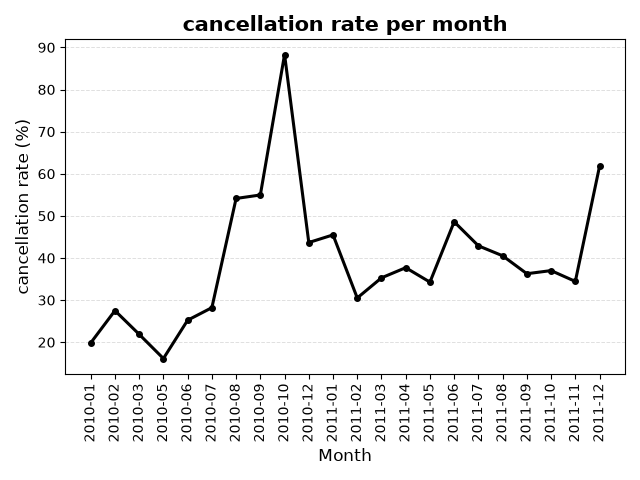
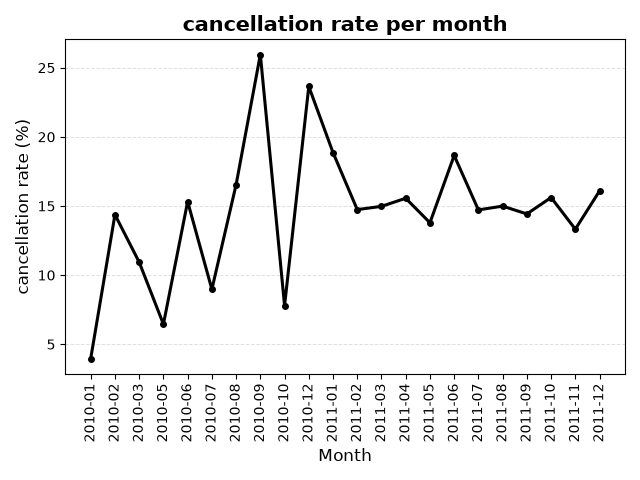
added read me and a few extra analyses to examine revenue

diff --git a/python/month_analyses.py b/python/month_analyses.py
@@ -36,6 +36,57 @@ plt.xticks(rotation=90)
 plt.tight_layout()
 plt.show()
 
+#I found that there is an increase of 683% between Oct 2010 & Dec 2010
+october = online_retail_clean[(online_retail_clean["InvoiceDate"].dt.year == 2010) & 
+                              (online_retail_clean["InvoiceDate"].dt.month == 10)]
+december = online_retail_clean[(online_retail_clean["InvoiceDate"].dt.year == 2010) & 
+                              (online_retail_clean["InvoiceDate"].dt.month == 12)]
+
+october_orders = october.groupby("InvoiceNo")["revenue"].sum().sort_values(ascending=False)
+december_orders = december.groupby("InvoiceNo")["revenue"].sum().sort_values(ascending=False)
+
+print (f"Highest revenue orders in october:\n {october_orders.head(10)}")
+print (f"Highest revenue orders in december:\n {december_orders.head(10)}")
+
+largest_order_oct = october_orders.iloc[0]
+largest_order_oct_share = (largest_order_oct / october["revenue"].sum()) * 100
+
+largest_order_dec = december_orders.iloc[0]
+largest_order_dec_share = (largest_order_dec / december["revenue"].sum()) * 100
+
+print (f"October largest order share: {largest_order_oct_share}%\n vs December: {largest_order_dec_share}%")
+
+print (f"October:\n Orders: {len(october_orders)}\n Revenue: {october_orders.sum()}\n Average_order: {october_orders.mean()}\n Median_order: {october_orders.median()}")
+print (f"December:\n Orders: {len(december_orders)}\n Revenue: {december_orders.sum()}\n Average_order: {december_orders.mean()}\n Median_order: {december_orders.median()}")
+
+#Examining the september 2011 peak:
+august = online_retail_clean[(online_retail_clean["InvoiceDate"].dt.year == 2011) & 
+                              (online_retail_clean["InvoiceDate"].dt.month == 8)]
+september = online_retail_clean[(online_retail_clean["InvoiceDate"].dt.year == 2011) & 
+                              (online_retail_clean["InvoiceDate"].dt.month == 9)]
+
+august_orders = august.groupby("InvoiceNo")["revenue"].sum().sort_values(ascending=False)
+september_orders = september.groupby("InvoiceNo")["revenue"].sum().sort_values(ascending=False)
+
+print (f"Highest revenue orders in august 2011:\n {august_orders.head(10)}")
+print (f"Highest revenue orders in september 2011:\n {september_orders.head(10)}")
+
+largest_order_aug = august_orders.iloc[0]
+largest_order_aug_share = (largest_order_aug / august["revenue"].sum()) * 100
+
+largest_order_sep = september_orders.iloc[0]
+largest_order_sep_share = (largest_order_sep / september["revenue"].sum()) * 100
+
+print (f"August largest order share: {largest_order_aug_share}%\n vs September: {largest_order_sep_share}%")
+
+print (f"August:\n Orders: {len(august_orders)}\n Revenue: {august_orders.sum()}\n Average_order: {august_orders.mean()}\n Median_order: {august_orders.median()}")
+print (f"September:\n Orders: {len(september_orders)}\n Revenue: {september_orders.sum()}\n Average_order: {september_orders.mean()}\n Median_order: {september_orders.median()}")
+
+largest_sep_invoice = september_orders.index[0]
+large_order_sep = september[september["InvoiceNo"] == largest_sep_invoice]
+
+print (large_order_sep[["InvoiceNo", "StockCode", "Description", "Quantity", "UnitPrice", "Country", "revenue"]])
+
 #Monthly new customers
 first_purchase = online_retail_clean.groupby("CustomerID")["InvoiceDate"].min().dt.to_period("M") #Find the first purchase date for each customer
 new_customers_per_month = first_purchase.value_counts().sort_index().reset_index() 
@@ -52,3 +103,29 @@ plt.grid(axis="y", linestyle="--", linewidth=0.7, alpha=0.4)
 plt.xticks(rotation=90)
 plt.tight_layout()
 plt.show()
+
+october["FirstPurchaseMonth"] = october["CustomerID"].map(first_purchase)
+october["CustomerType"] = october["InvoiceDate"].dt.to_period("M") == october["FirstPurchaseMonth"]
+
+oct_orders = october["InvoiceNo"].nunique()
+oct_revenue = october["revenue"].sum()
+october_new_orders = october[october["CustomerType"] == True]["InvoiceNo"].nunique()
+october_new_revenue = october[october["CustomerType"] == True]["revenue"].sum()
+
+print (f"October new orders share: {october_new_orders / oct_orders * 100}")
+print (f"October new revenue share: {october_new_revenue / oct_revenue * 100}")
+
+december["FirstPurchaseMonth"] = december["CustomerID"].map(first_purchase)
+december["CustomerType"] = december["InvoiceDate"].dt.to_period("M") == december["FirstPurchaseMonth"]
+
+dec_orders = december["InvoiceNo"].nunique()
+dec_revenue = december["revenue"].sum()
+december_new_orders = december[december["CustomerType"] == True]["InvoiceNo"].nunique()
+december_new_revenue = december[december["CustomerType"] == True]["revenue"].sum()
+
+print (f"December new orders share: {december_new_orders / dec_orders * 100}")
+print (f"December new revenue share: {december_new_revenue / dec_revenue * 100}")
+
+
+
+

diff --git a/python/cancellation_analysis.py b/python/cancellation_analysis.py
@@ -27,16 +27,34 @@ revenue_cancelled = online_retail_clean.loc[online_retail_clean["cancelled"], "r
 print (f"Total revenue cancelled: {revenue_cancelled}")
 
 #Most often cancelled products
-products_cancelled = online_retail_clean.groupby("StockCode").agg(cancelled = ("cancelled", "sum"), description = ("Description", "first")).sort_values("cancelled", ascending=False)
+product_invoice = online_retail_clean.groupby(["StockCode", "InvoiceNo"], as_index=False).agg(cancelled = ("cancelled", "max"), description = ("Description", "first"), Invoicedate = ("InvoiceDate", "first"))
+products_cancelled = product_invoice.groupby("StockCode").agg(cancelled=("cancelled", "sum"), total_transactions=("InvoiceNo", "nunique"), description=("description", "first"))
 
-print (f"Most frequently cancelled products:\n {products_cancelled.head(10)}")
+products_cancelled["cancellation_rate"] = products_cancelled["cancelled"] / products_cancelled["total_transactions"] * 100
+products_cancelled["cancellation_share"] = products_cancelled["cancelled"] / products_cancelled["cancelled"].sum() * 100
+
+products_cancelled = products_cancelled.sort_values("cancelled", ascending=False)
+
+print (f"Most frequently cancelled products:\n {products_cancelled [["cancelled", "description", "total_transactions", "cancellation_rate", "cancellation_share"]].head(10)}")
+
+product_invoice["month"] = product_invoice["Invoicedate"].dt.to_period("M")
+
+monthly_product = product_invoice.groupby(["month", "StockCode"], as_index=False).agg(cancelled=("cancelled", "sum"), total_transactions=("InvoiceNo", "nunique"), description=("description", "first"))
+monthly_product["cancellation_rate"] = monthly_product["cancelled"] / monthly_product["total_transactions"] * 100
+
+high_cancellation_months = ["2010-09", "2010-12", "2011-01", "2011-11"]
+
+high_month_products = monthly_product[monthly_product["month"].astype(str).isin(high_cancellation_months)].sort_values(["month", "cancelled"], ascending=[True, False]).groupby("month").head(5)
+
+print(high_month_products)
 
 #Cancellation rate (%) per month
-cancellation_month = online_retail_clean.groupby(online_retail_clean["InvoiceDate"].dt.to_period("M"), as_index = False).agg(cancelled = ("cancelled", sum), total_invoices = ("InvoiceNo", "nunique"))
+month_invoice = online_retail_clean.groupby(["InvoiceNo", online_retail_clean["InvoiceDate"].dt.to_period("M")], as_index=False).agg(cancelled = ("cancelled", "max"))
+cancellation_month = month_invoice.groupby("InvoiceDate", as_index=False).agg(cancelled=("cancelled", "sum"), total_transactions=("InvoiceNo", "nunique"))
 
-cancellation_month["cancellation_rate"] = cancellation_month["cancelled"] / cancellation_month ["total_invoices"] * 100
+cancellation_month["cancellation_rate"] = cancellation_month["cancelled"] / cancellation_month ["total_transactions"] * 100
 
-print (f"Cancellation rate/month:\n {cancellation_month}")
+print (f"Cancellation rate/month:\n {cancellation_month.sort_values("cancelled", ascending=False)}")
 
 plt.plot (cancellation_month["InvoiceDate"].astype(str), cancellation_month["cancellation_rate"], color = "black", linewidth = 2.2, marker = "o", markersize = 4)
 plt.xlabel ("Month", fontsize = 12)
@@ -53,6 +71,9 @@ invoice_level = (online_retail_clean.groupby(["Country", "InvoiceNo"], as_index=
 cancellation_country = (invoice_level.groupby("Country", as_index=False).agg(cancelled=("cancelled", "sum"), total_invoices=("InvoiceNo", "nunique")))
 
 cancellation_country["cancellation_rate"] = (cancellation_country["cancelled"] / cancellation_country["total_invoices"] * 100)
+cancellation_country["cancellation_share"] = cancellation_country["cancelled"] / cancellation_country["cancelled"].sum() * 100
+
+cancellation_country = cancellation_country.sort_values("cancelled", ascending=False)
 
 print (f"Cancellation rate/country:\n {cancellation_country}")
 

diff --git a/python/revenue_analysis.py b/python/revenue_analysis.py
@@ -31,8 +31,11 @@ Are these products also the most frequently purchased products?
 Which countries generate the most revenue? 
 How has revenue changed over time? """
 
-#Which products generate the most revenue
+#What is the total revenue
 online_retail_clean["revenue"] = online_retail_clean["Quantity"] * online_retail_clean["UnitPrice"]
+print (f"Total revenue: {online_retail_clean["revenue"].sum()}")
+
+#Which products generate the most revenue
 revenue_product = online_retail_clean.groupby("StockCode").agg(revenue = ("revenue", "sum"), description = ("Description", "first")).sort_values("revenue", ascending=False)
 
 print (f"Highest revenue products:\n {revenue_product.head(10)}")
@@ -46,6 +49,17 @@ print (f"Most frequently purchased products:\n {purchases_product.head(10)}")
 revenue_country = online_retail_clean.groupby("Country")["revenue"].sum()
 
 print (f"Highest revenue countries:\n {revenue_country.nlargest(10)}")
+
+country_analysis = online_retail_clean.groupby("Country").agg(
+    Revenue = ("revenue", "sum"), 
+    UnitsSold = ("Quantity", "sum"), 
+    Transactions = ("InvoiceNo", "nunique")).sort_values("Revenue", ascending=False)
+
+print (country_analysis.head(10))
+
+top_5_countries = country_analysis.head(5)["Revenue"].sum()
+total_revenue = online_retail_clean["revenue"].sum()
+print (f"top 10 percentage of total: {top_5_countries / total_revenue * 100}%")
 
 #How does the revenue change per month
 revenue_month = online_retail_clean.groupby(online_retail_clean["InvoiceDate"].dt.to_period("M"), as_index = False)["revenue"].sum()

diff --git a/python/transaction_analyses.py b/python/transaction_analyses.py
@@ -23,6 +23,17 @@ online_retail_clean_quansorted = online_retail_clean.sort_values("Quantity", asc
 
 print (f"transactions with the most products:\n {online_retail_clean_quansorted.head(10)}")
 
+product_analysis = online_retail_clean.groupby("Description").agg(
+    Revenue = ("revenue", "sum"), 
+    UnitsSold = ("Quantity", "sum"), 
+    Transactions = ("InvoiceNo", "nunique")).sort_values("Revenue", ascending=False)
+
+print (product_analysis.head(10))
+
+top_10_revenue = product_analysis.head(10)["Revenue"].sum()
+total_revenue = online_retail_clean["revenue"].sum()
+print (f"top 10 percentage of total: {top_10_revenue / total_revenue * 100}%")
+
 #What days do most transactions occur?
 transactions_day= online_retail_clean.groupby(online_retail_clean["InvoiceDate"].dt.to_period("D"))["InvoiceNo"].nunique()
 

diff --git a/analysis/analysis.md b/analysis/analysis.md
@@ -1,0 +1,43 @@
+## Research Questions
+- How has revenue changed over time? 
+- Which products and countries drive revenue? 
+- What products or countries have unusually high cancellation rates?
+
+## Revenue
+The best month was September 2011 (£1,084,393.49, ~12% of total revenue), while the worst month was March 2010 (£23,558.61, ~0.26% of total revenue). 
+
+A stark increase in revenue is seen from November 2010 (monthly growth of ~683%) continuing into January 2011 (264% growth), before revenue begins to fluctuate at a higher level. The dataset only runs until 09-12-2011, explaining the decrease in revenue in the final month. Examining the three largest orders in November (£5,375.28, £3,762.66 and £2,157.64) versus December (£8,520.92, £6,930.00 and £3,590.59) did not show one order driving the revenue increase in December. Although orders generated more revenue overall, the ten highest-revenue orders in November generated £19,059 in total compared with £36,063 in December, an increase of 89%. There was therefore no disproportionately large order in December driving the 683% revenue increase. Indeed, the largest order contributed only 3.78% of December's total revenue, compared with 16.32% in November. Furthermore, the average and median revenue per order remained relatively similar between November (average: £463; median: £228) and December (average: £409; median: £275). In contrast, the number of orders increased sharply from 71 in November to 549 in December, representing a 673% increase. This suggests that the December revenue increase coincided with a substantial increase in transaction volume rather than by a small number of unusually large orders.
+
+Interestingly, the increase in transaction volume coincided with a substantial increase in the number of new customers. New customers increased from 40 in November to 272 in December, representing a 580% increase. New customer acquisition therefore increased on a similar scale to transaction volume, providing a plausible explanation for the sharp rise in orders, although the analysis does not establish a causal relationship. Moreover, new customers accounted for 56% of December orders and 58% of December revenue. Combined with the relatively stable average and median order values, this suggests that December's revenue growth primarily coincided with acquiring and converting a substantially larger customer base, rather than by existing customers placing significantly larger orders.
+
+Following the December 2010 surge, revenue remained at a higher level throughout 2011, averaging approximately £632,957 per month. New customers continued to be acquired throughout every month of 2011, with an average of approximately 288 new customers per month. September 2011 represented the peak of this higher-revenue period, generating £1,084,393.49, or approximately 12% of total revenue. The average order in September was higher than in August (August: £430.71, September: £648.17), while the median remained similar (August: £302.40, September: £315.30), suggesting a few large orders may drive revenue in September. The largest order in September was £168,469.60 (while the second and third were £31,698.16 and £22,104.80 respectively), representing 15% of September total revenue. This order contained 80,995 units of Paper Craft, Little Birdie, generating £168,469.60 in revenue. September's record revenue therefore partly coincided with an exceptionally large order, meaning the month should not necessarily be treated as representative of underlying monthly demand.
+
+Thus, the data indicates a structural shift in the business from late 2010 onwards: revenue growth initially coincided with a dramatic increase in transaction volume and new customer acquisition, after which the business maintained a higher monthly revenue level throughout 2011, culminating in its highest monthly revenue in September.
+
+## Products
+The highest-revenue product was PAPER CRAFT, LITTLE BIRDIE (£168,469.60, approximately 1.92% of total revenue). However, this revenue was generated from only one transaction (80,995 units sold), indicating that the product's high revenue coincided with an exceptional single purchase rather than consistent customer demand. In contrast, the REGENCY CAKESTAND 3 TIER generated £142,592.95 (1.63% of total revenue) and sold 12,412 units across 1,704 transactions, the WHITE HANGING HEART T-LIGHT HOLDER generated £100,448.15 (1.15%) and sold 36,725 units across 1,971 transactions, and the JUMBO BAG RED RETROSPOT generated £85,220.78 (0.97%) and sold 46,181 units across 1,600 transactions. These products therefore demonstrate broader and more consistent demand than PAPER CRAFT, LITTLE BIRDIE and can be considered the most popular products based on transaction frequency.
+
+The top 10 products by revenue account for only approximately 10% of total revenue, indicating that overall revenue is not heavily dependent on a small number of products. This suggests that inventory planning should distinguish between high-value outlier products, such as PAPER CRAFT, LITTLE BIRDIE, and consistently high-demand products, such as the REGENCY CAKESTAND 3 TIER, WHITE HANGING HEART T-LIGHT HOLDER and JUMBO BAG RED RETROSPOT. The latter products may warrant greater inventory priority because stockouts could affect a much larger number of transactions.
+
+## Geography
+The United Kingdom was by far the largest revenue-generating market, generating £7,257,997.21 (82.88% of total revenue), with 4,256,451 units sold across 16,591 transactions (including PAPER CRAFT, LITTLE BIRDIE). The Netherlands was the second-highest revenue market, generating £283,748.49 (3.24%) from 200,737 units across 94 transactions, followed by EIRE with £262,114.56 (2.99%) from 140,487 units across 258 transactions. Germany and France recorded more transactions than the Netherlands and EIRE respectively (443 and 380), but generated lower revenue of £205,265.39 (2.34%) and £184,003.28 (2.10%).
+
+Overall, these five countries account for 93.55% of total revenue, demonstrating a high level of geographic concentration. The United Kingdom alone accounts for almost 83% of revenue, making it by far the most important market. The relatively high number of units sold in the Netherlands and EIRE despite their low transaction counts also suggests that revenue in these markets may be influenced by larger orders rather than a high volume of transactions. Indeed, the average amount per transaction was £3,018.60 in the Netherlands, and £1,015.95 in the EIRE, while it was only £437.47 in the United Kingdom.
+
+## Cancellations
+Overall, 2.11% of all transactions were cancelled, representing £474,345.65 in cancelled revenue. 
+
+Cancellation rates increased alongside transaction growth, while the cancellation rate became relatively more stable during 2011 compared with the larger fluctuations observed in 2010. The highest cancellation rate was 25.95% in September 2010, followed by December 2010 (23.64%). Cancellation rates stabilized in 2011 between 13% and 19%, with the highest rate in January 2011 (18.86%). Moreover, November 2011 had the highest number of cancellations (354), but a relatively modest cancellation rate of 13.32%, due to November's high transaction volume (2,657). 
+
+In September 2010 the products with the highest number of cancellations were the RECIPE BOX WITH METAL HEART (cancelled 2 out of 2 transactions: 100%), ORGANISER WOOD ANTIQUE WHITE (cancelled 2 out of 4 transactions: 50%), and the  DOLLY GIRL LUNCH BOX (cancelled 2 out of 6 transactions: 33.33%). However, in September 2010 few transactions were found, making cancelltion rates unsually high (50-100%). These high rates were based on a very small number of transactions and therefore provide limited evidence of systematic cancellation risk. In December 2010 these were the REGENCY CAKESTAND 3 TIER (8 out of 68 transactions: 11.76%), VICTORIAN SEWING BOX LARGE (6 out of 23 transactions: 26.09%), and the SILVER HANGING T-LIGHT HOLDER (5 out of 18 transactions: 27.78%). In January 2011 the REGENCY CAKESTAND 3 TIER (21 out of 144 transactions: 14.58%), the JAM MAKING SET WITH JARS (7 out of 59 transactions: 12.50%), and the ROSES REGENCY TEACUP AND SAUCER (7 out of 59 transactions: 11.86%) were among the highest cancelled products. Finally, in November 2011 the REGENCY CAKESTAND 3 TIER (18 out of 186 transactions: 9.67%), the WHITE HANGING HEART T-LIGHT HOLDER (8 out of 220 transactions: 3.63%), and the RED RETROSPOT CAKE STAND (6 out of 34 transactions: 17.64%) were most often cancelled. Overall, the most often cancelled products are the REGENCY CAKESTAND 3 TIER (cancelled 181 times: 2.12% of all cancellations) and JAM MAKING SET WITH JARS (cancelled 86 times: 1.01%). The 
+
+The United Kingdom dominates cancellation rates with 2,999 cancelled orders on a total of 19,590 invoices (15.31% of all invoices within the United Kingdom), representing 88.73% of all cancellations. Germany is the second largest with 135 cancelled orders on a total of 578 invoices (23.36%), representing 3.99% of all cancellations. France follows with 59 cancelled orders on a total of 439 invoices (13.44%), representing 1.75% of all cancellations. Several countries (Malta: 44.44%, Czech Republic: 50%, Saudi Arabia: 50% and Italy: 28.57%) have high cancellation rates, but these should be interpreted cautiously as these countries have very small transaction volumes (e.g., Malta has 9 transactions in total, Czech republic has 4). Therefore, countries with larger transaction volumes provide more reliable indicators. Among the major markets, Germany has a substantially higher cancellation rate (23.36%) than the United Kingdom (15.31%), while France has a comparatively lower rate (13.44%). Overall, cancellations are heavily concentrated in the United Kingdom due to its much larger transaction volume. 
+
+Overall, cancellations represent a relatively small share of total transactions (2.11%) but account for £474,345.65 of cancelled revenue. While cancellation rates were more volatile in 2010, they became more stable in 2011 despite significant transaction growth. Cancellations are heavily concentrated in the United Kingdom, while Germany has a notably higher cancellation rate despite its smaller transaction volume. At the product level, the REGENCY CAKESTAND 3 TIER and JAM MAKING SET WITH JARS stand out as the most frequently cancelled products, suggesting that specific products and markets may be worth investigating to identify opportunities for reducing cancelled revenue.
+
+## Conclusion
+**Revenue:** Overall, the analysis indicates that the business experienced a significant revenue shift in late 2010, and revenue growth primarily coincided with a substantial increase in transaction volume and new customer acquisition. Revenue subsequently remained at a much higher level throughout 2011, although the September peak was partly influenced by an exceptionally large order. Revenue is also highly concentrated geographically, with the United Kingdom accounting for approximately 83% of total revenue, highlighting both the importance of the domestic market and the potential for further international growth.
+
+**Products:** From a product perspective, revenue is relatively diversified, with the top 10 products contributing only around 10% of total revenue. However, inventory management should distinguish between products generating revenue through exceptional individual orders and products demonstrating consistently high transaction volumes. Products such as the REGENCY CAKESTAND 3 TIER, WHITE HANGING HEART T-LIGHT HOLDER and JUMBO BAG RED RETROSPOT may therefore warrant particular attention when prioritising stock levels.
+
+**Cancellations:** The analysis also identifies opportunities to reduce lost revenue from cancellations. Although cancellations represent a relatively small proportion of transactions, they account for approximately 5.42% of total revenue. Germany has a notably higher cancellation rate than the UK and France, while the REGENCY CAKESTAND 3 TIER and JAM MAKING SET WITH JARS are among the most frequently cancelled products. Further investigation into the causes of cancellations for these products and markets could therefore help reduce avoidable revenue loss.

diff --git a/ReadMe.md b/ReadMe.md
@@ -1,0 +1,46 @@
+# Online UCI Retail Sales Analysis
+   
+## Objective
+Analyze online retail sales to understand revenue trends, product performance, geographic differences, and cancellations.
+
+## Ket findings
+**Revenue:** Overall, the analysis indicates that the business experienced a significant revenue shift in late 2010, and revenue growth primarily coincided with a substantial increase in transaction volume and new customer acquisition. Revenue subsequently remained at a much higher level throughout 2011, although the September peak was partly influenced by an exceptionally large order. Revenue is also highly concentrated geographically, with the United Kingdom accounting for approximately 83% of total revenue, highlighting both the importance of the domestic market and the potential for further international growth.
+
+**Products:** From a product perspective, revenue is relatively diversified, with the top 10 products contributing only around 10% of total revenue. However, inventory management should distinguish between products generating revenue through exceptional individual orders and products demonstrating consistently high transaction volumes. Products such as the REGENCY CAKESTAND 3 TIER, WHITE HANGING HEART T-LIGHT HOLDER and JUMBO BAG RED RETROSPOT may therefore warrant particular attention when prioritising stock levels.
+
+**Cancellations:** The analysis also identifies opportunities to reduce lost revenue from cancellations. Although cancellations represent a relatively small proportion of transactions, they account for approximately 5.42% of total revenue. Germany has a notably higher cancellation rate than the UK and France, while the REGENCY CAKESTAND 3 TIER and JAM MAKING SET WITH JARS are among the most frequently cancelled products. Further investigation into the causes of cancellations for these products and markets could therefore help reduce avoidable revenue loss.
+
+## Recommendations
+Based on these findings, the business should:
+- Prioritise customer acquisition and retention.
+
+- Maintain adequate inventory for consistently high-demand products.
+
+- Investigate the causes of cancellations in higher-risk markets and product categories. 
+
+- Expand sales in established international markets: the strong dependence on the UK market suggests that expanding sales could provide an opportunity to diversify revenue and reduce geographic concentration.
+
+- Unusually large individual orders should be monitored separately from underlying demand trends to ensure that future revenue and inventory decisions are based on sustainable purchasing patterns rather than exceptional transactions.
+
+## Dataset
+Dataset can be downloaded from https://archive.ics.uci.edu/dataset/352/online+retail DOI: 10.24432/C5BW33
+
+## Data Quality & Assumptions
+Invoice numbers containing an A (pertaining to "bad debt") were filtered from all analyses.
+
+Descriptions that were not captialized (not describing actual products) were filtered from all analyses. 
+
+Rows with non-positive quantities were treated as returns/cancellations and excluded from all analyses, except cancellation analyses.
+
+Both Price and Quantity are strongly right skewed. 
+
+Revenue was calculated as Quantity × UnitPrice. 
+
+## Methodology
+Raw data was examined for quality and transformed into analytical tables in SQL. 
+
+Initial summary analyses were performed on analytical tables in SQL
+
+Visualizations were made in python.
+    
+    
